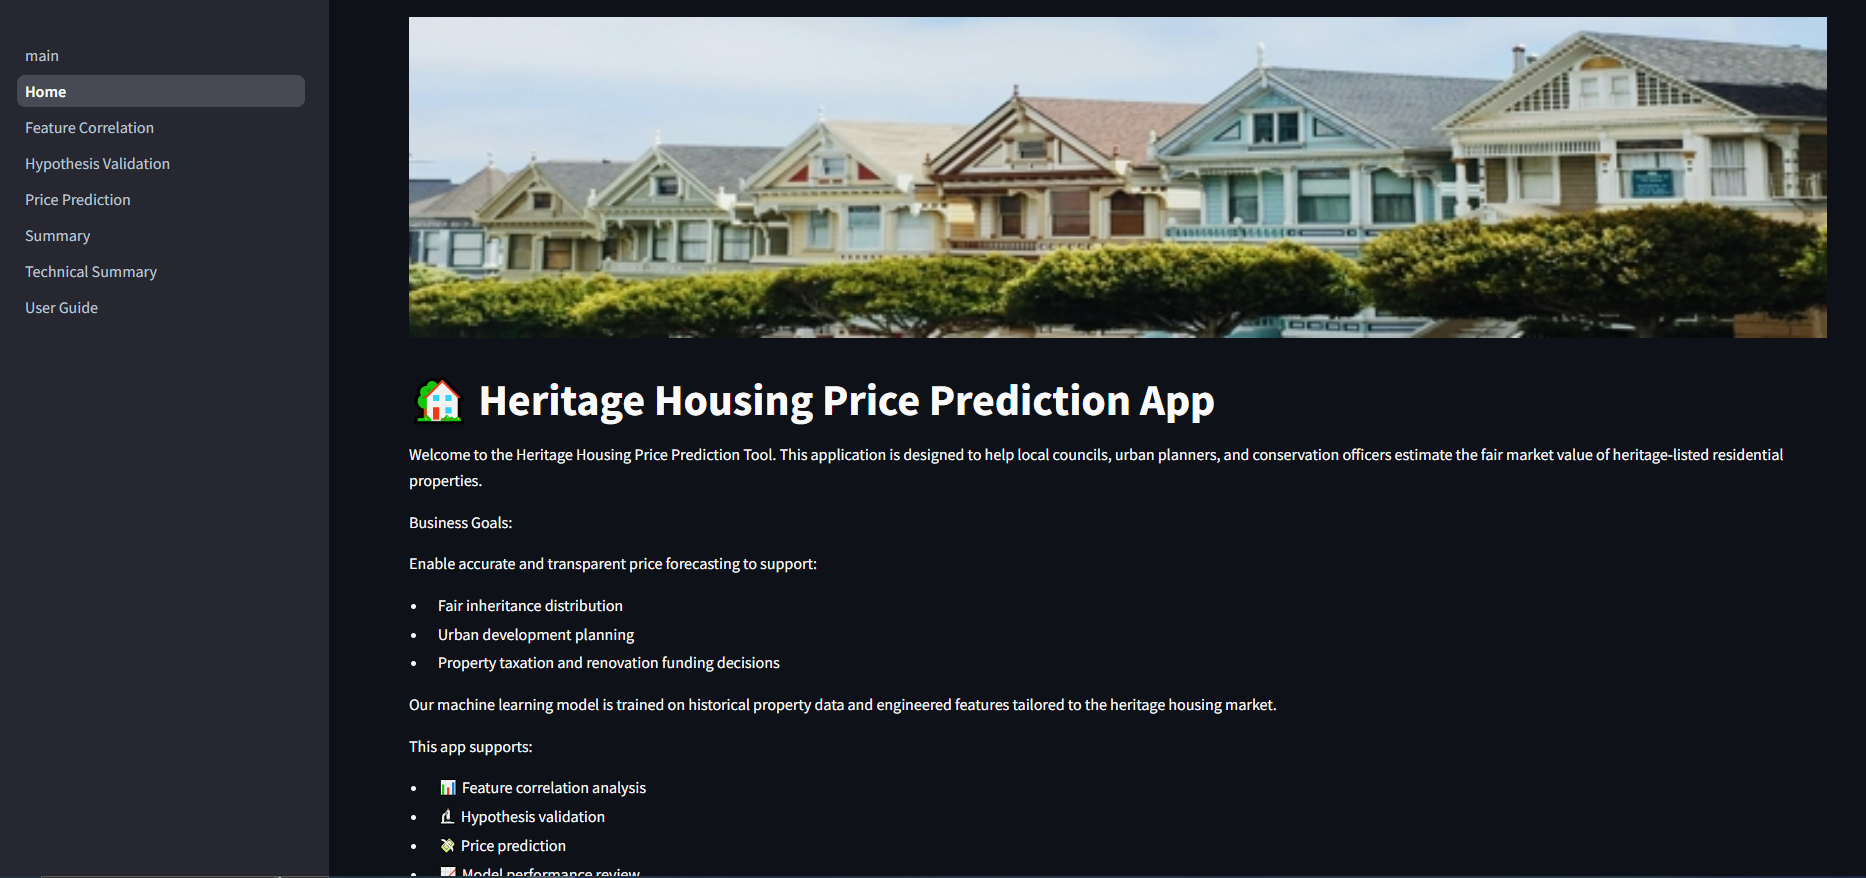
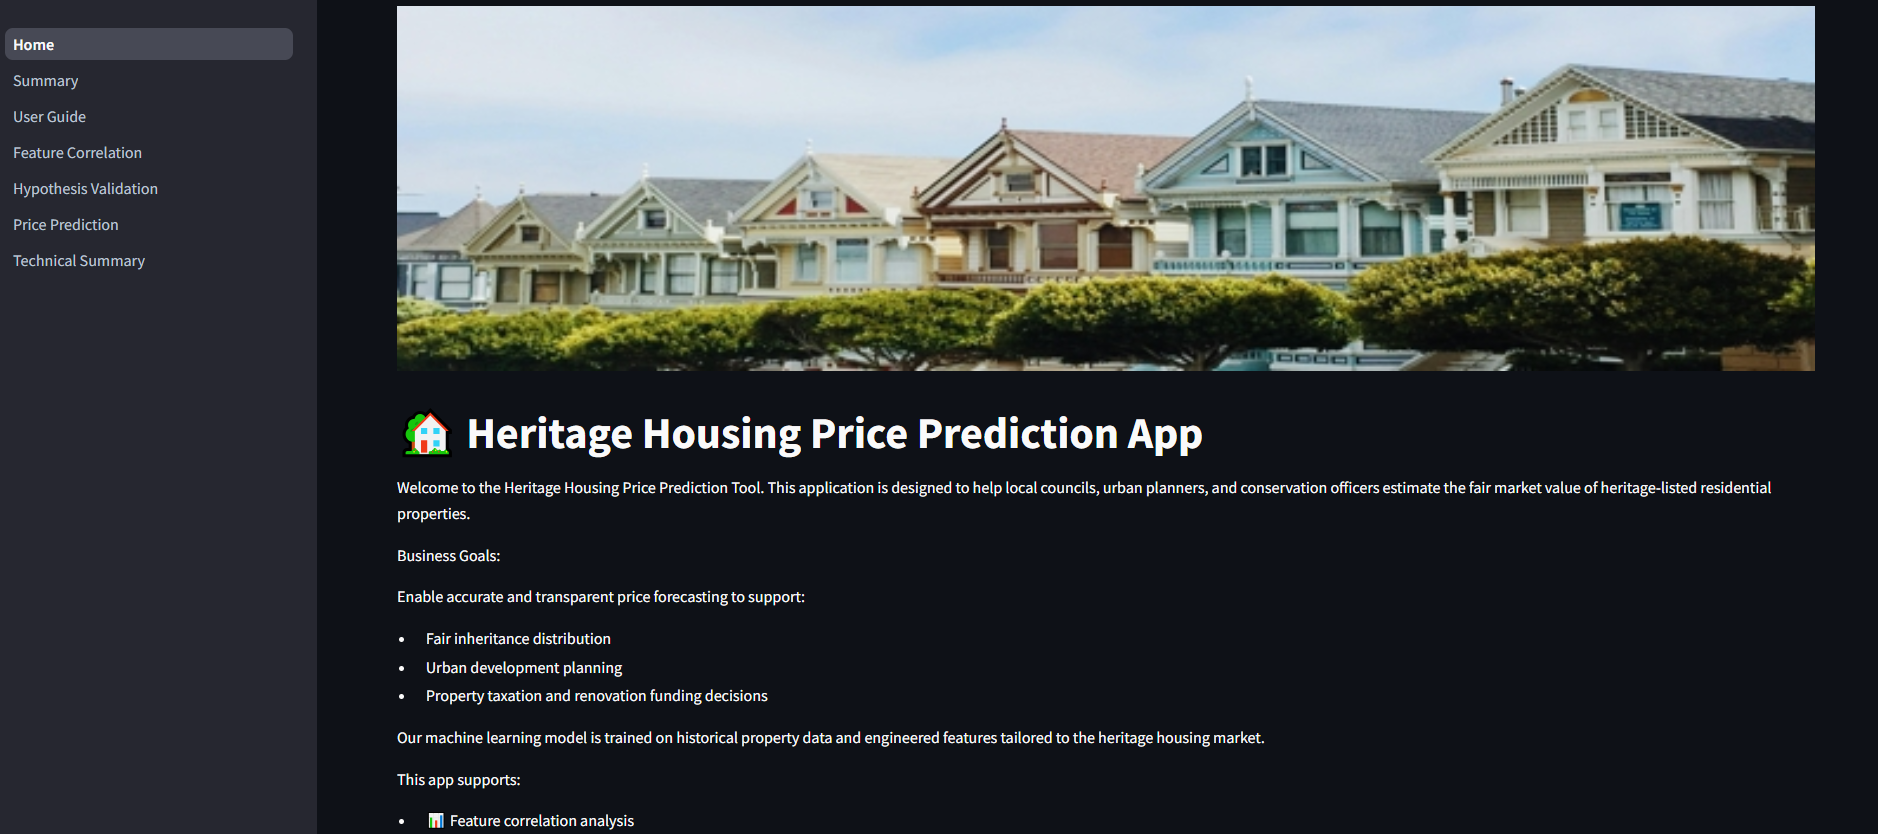
Replace old images with updates ones

Changed region(s): [[0.0, 0.0, 1.0, 1.0]]

diff --git a/README.md b/README.md
@@ -320,18 +320,7 @@ The dashboard serves as the user-facing interface of the Heritage Housing projec
 
 The application is divided into the following pages:
 
-1. **Main Page**  
-   - Instructs users to use the sidebar to access all dashboard features.
-   - Sets expectations for navigation and user experience.
-
-   **Key Content**:
-   - Welcome message and visual banner.
-   - Instructions to begin navigating from the sidebar.
-   - Static layout, no inputs.
-
-   ![Main Page](static/images/main_page.PNG)
-
-2. **Home**  
+1. **Home**  
    - Introduces the Heritage Housing project and its objectives.
    - Provides business context and the client’s challenge.
 
@@ -343,7 +332,30 @@ The application is divided into the following pages:
 
    ![Home Page](static/images/home_page.PNG)
 
-3. **Feature Correlation**
+2. **Summary Page**  
+   - Summarizes key project insights, business outcomes, and modeling results.
+
+   **Key Content**:
+   - High-level takeaways from EDA and modeling.
+   - Recap of business requirements and how they were met.
+   - Visual summary of model performance and inherited property predictions.
+   - Ideal for stakeholders who want conclusions without technical depth.
+
+   ![Summary Page](static/images/summary_page.PNG)
+
+3. **User Guide**  
+   - Instructions and explanations for using the app efficiently.
+
+   **Key Content**:
+   - What to expect from each page.
+   - Description of required inputs for prediction.
+   - Navigation tips.
+   - Explanation of tool outputs (what the heatmap or prediction means).
+   - Screenshots and user tips.
+
+   ![User Guide Page](static/images/userguide_page.PNG)
+
+4. **Feature Correlation**
    - Allows users to explore how individual features relate to house prices.
 
    **Key Content**:
@@ -354,7 +366,7 @@ The application is divided into the following pages:
 
    ![Feature Correlation Page](static/images/feature_correlation_page.PNG)
 
-4. **Hypothesis Validation**  
+5. **Hypothesis Validation**  
    - Validates hypotheses around what influences house prices using visual analysis.
 
    **Key Content**:
@@ -365,7 +377,7 @@ The application is divided into the following pages:
 
    ![Hypothesis Validation Page](static/images/hypothesis_page.PNG)
 
-5. **Price Prediction**  
+6. **Price Prediction**  
    - Offers real-time predictions for sale prices based on user-inputted property details.
 
    **Key Content**:
@@ -378,17 +390,6 @@ The application is divided into the following pages:
 
    ![Price Prediction Page](static/images/pp_page.PNG)
 
-6. **Summary Page**  
-   - Summarizes key project insights, business outcomes, and modeling results.
-
-   **Key Content**:
-   - High-level takeaways from EDA and modeling.
-   - Recap of business requirements and how they were met.
-   - Visual summary of model performance and inherited property predictions.
-   - Ideal for stakeholders who want conclusions without technical depth.
-
-   ![Summary Page](static/images/summary_page.PNG)
-
 7. **Technical Summary**  
    - Presents detailed modeling pipeline, evaluation metrics, and artefact summaries.
 
@@ -400,18 +401,6 @@ The application is divided into the following pages:
    - Expanders and radio buttons for pipeline visibility.
 
    ![Technical Summary Page](static/images/tech_summary_page.PNG)
-
-8. **User Guide**  
-   - Instructions and explanations for using the app efficiently.
-
-   **Key Content**:
-   - What to expect from each page.
-   - Description of required inputs for prediction.
-   - Navigation tips.
-   - Explanation of tool outputs (what the heatmap or prediction means).
-   - Screenshots and user tips.
-
-   ![User Guide Page](static/images/userguide_page.PNG)
 
 ### Future Enhancements
 
